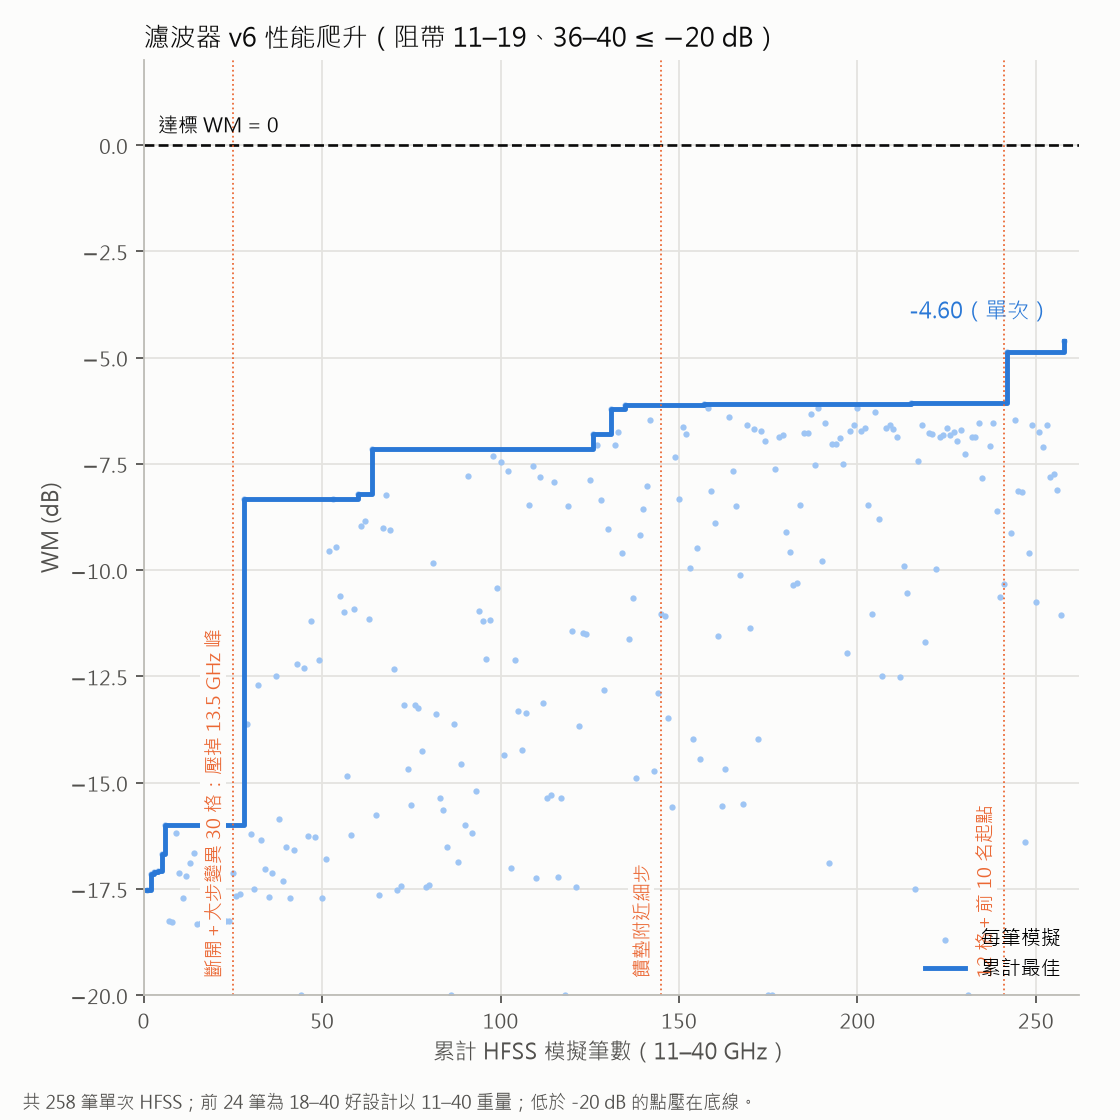
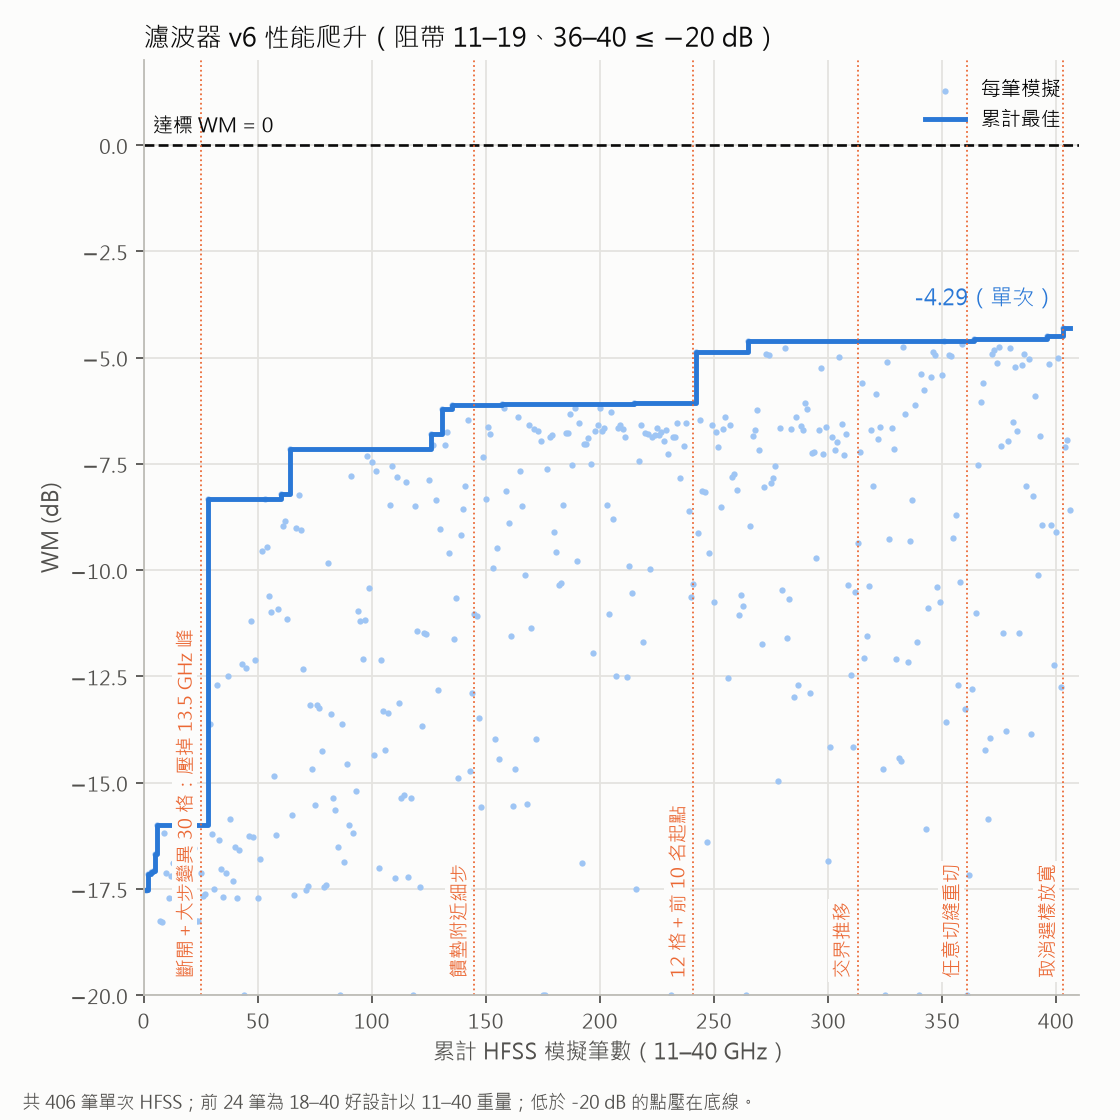
fig(r81/r80): v6 爬升圖與最佳卡片更新（b78_000 −4.29 單次，推移臂連兩批出最佳）；對稱圖重繪

diff --git a/script/figs/r81_v6.py b/script/figs/r81_v6.py
@@ -18,7 +18,8 @@ from script.figs import r81_progress as rp
 
 DOT, LINE, MARK = "#9ec5f4", "#2a78d6", "#eb6834"
 V6, V6A = sm.REPO / "configs" / "dual_r81_v6.yaml", sm.REPO / "configs" / "dual_r81_v6a.yaml"
-EVENTS = [(62, "斷開＋大步變異 30 格：壓掉 13.5 GHz 峰"), (67, "饋墊附近細步"), (71, "12 格＋前 10 名起點")]
+EVENTS = [(62, "斷開＋大步變異 30 格：壓掉 13.5 GHz 峰"), (67, "饋墊附近細步"), (71, "12 格＋前 10 名起點"),
+          (74, "交界推移"), (76, "任意切縫重切"), (78, "取消選樣放寬")]
 
 
 def rows_v6(cfg, grid):
@@ -64,7 +65,7 @@ def climb_figure(out, rows):
     ax.set_xlabel("累計 HFSS 模擬筆數（11–40 GHz）", color=rp.MUTED)
     ax.set_ylabel("WM (dB)", color=rp.MUTED)
     ax.set_title("濾波器 v6 性能爬升（阻帶 11–19、36–40 ≤ −20 dB）", loc="left", fontsize=11.5, color=rp.INK)
-    ax.legend(loc="lower right", frameon=False, fontsize=9)
+    ax.legend(loc="upper right", frameon=False, fontsize=9)
     rp.style(ax)
     ax.set_box_aspect(1)
     fig.text(0.02, 0.01, f"共 {len(wm)} 筆單次 HFSS；前 24 筆為 18–40 好設計以 11–40 重量；低於 {lo} dB 的點壓在底線。",

diff --git a/docs/log/round-81-wide-filter.md b/docs/log/round-81-wide-filter.md
@@ -549,3 +549,9 @@ Ricky 要求 S11、S22 一起達標（沿用 R81 原匹配條件 26.5–29.5 GHz
 - `r81v2_b77_005_10c6296a`（push）WM **−4.50**（單次）：通帶 −1.73、低阻 −3.95、高阻 −3.54、S11 −4.50、S22 −3.26。低阻帶首次進 −4 以內，限制項改為 S11。
 - 照 b74 判準（push 最佳 ≥ 同批 climb 最佳 → 保留推移）本批成立；push 已是 SM 自選常客（b78 10 筆、b79 6 筆），不另設名額。小步 reseam 仍差，維持 SM 自選。
 - b78（無 relax）跑中；b79 同參數入佇列（mutate 12、push 6、climb 6）。
+
+## 2026-10-19 17:45：b78 推移再推進到 −4.29（單次）；爬升圖更新
+
+- `r81v2_b78_000_407dda6d`（push，父 `b76_011`，SM 預測 −4.48）v6 WM **−4.29**：通帶 −2.42、低阻 −3.95、高阻 −0.70、S11 −3.82、S22 −4.29。−15 版同為 −4.29，限制項已是 S22 匹配而非阻帶。
+- 連兩批最佳都來自 push（b77_005 −4.50 → b78_000 −4.29），交界移動開始有效。
+- 圖：![爬升](assets/round-81/r81v6_climb.png) ![最佳](assets/round-81/r81v6_best_card.png)（`python -m script.figs.r81_v6 docs/log/assets/round-81`，加註 b74 交界推移、b76 任意切縫、b78 取消選樣放寬三個事件）
